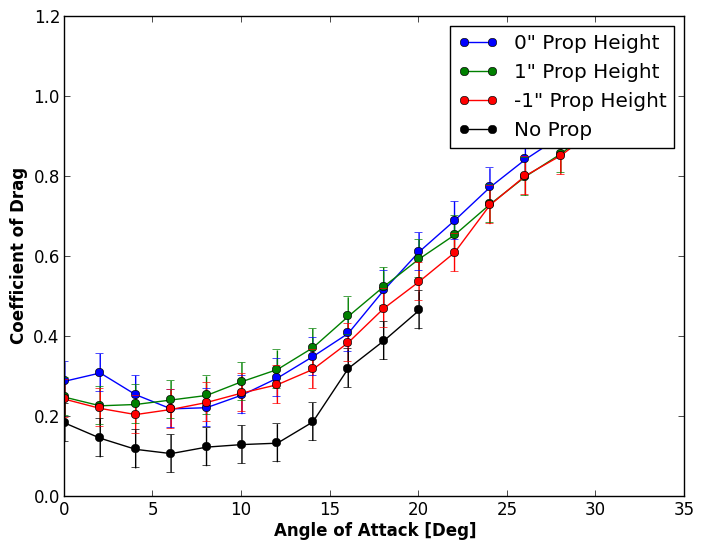
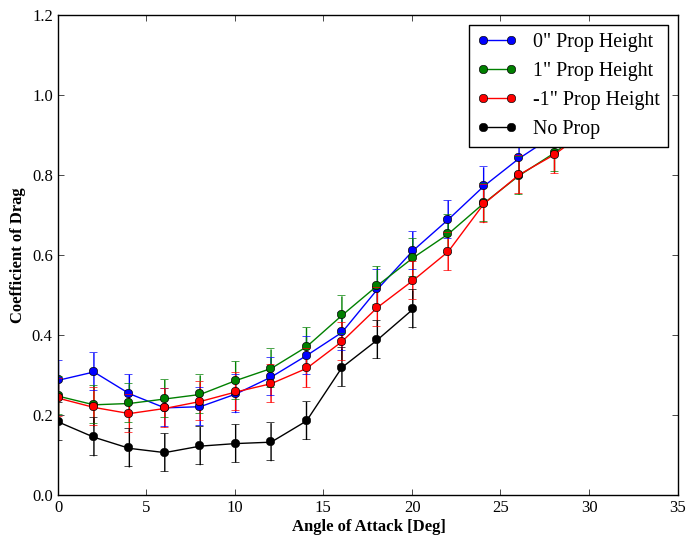
xfoil comp

Changed region(s): [[0.0, 0.0, 0.9957, 0.9982]]

diff --git a/cl_alpha_curves.py b/cl_alpha_curves.py
@@ -3,6 +3,10 @@ import matplotlib.pyplot as plt
 import numpy as np
 from dataProcessing import getForcesMoments
 
+font = {'family': 'Times New Roman'}
+
+plt.rc('font', **font)
+
 data = {}
 
 tunnel_V = 10.64 # m/s
@@ -100,18 +104,17 @@ legend = []
 for key in data[300][2300].keys():
 
     plt.figure(1)
-    # plt.plot(data[300][2300][key]['Alpha'], data[300][2300]
-    #          [key]['CL'] - data[0][2300][key]['CL'], '-o')
     plt.errorbar(data[300][2300][key]['Alpha'], data[300][2300][key]['CL'] - data[0][2300][key]['CL'],  yerr=[data[300][2300][key]['CL Low Error'], data[300][2300][key]['CL High Error']], fmt='-o' )
 
     plt.figure(2)
     plt.errorbar(data[300][2300][key]['Alpha'], data[300][2300][key]['CD'] - data[0][2300][key]['CD'],  yerr=[data[300][2300][key]['CD Low Error'], data[300][2300][key]['CD High Error']], fmt='-o' )
 
-    # plt.plot(data[300][2300][key]['Alpha'], data[300][2300]
-    #          [key]['CD'] - data[0][2300][key]['CD'], '-o')
 
     legend.append(str(key)+ '" Prop Height')
-    # print key
+    print(key)
+    # print(data[300][2300][key]['CL'])data[300][2300][key]['CL'] - data[0][2300][key]['CL']
+    print(np.max(data[300][2300][key]['CL'] - data[0][2300][key]['CL']))
+
 
 legend.append('No Prop')
 plt.figure(1)
@@ -134,7 +137,24 @@ plt.savefig('Figures/CD_Alpha.png',    bbox_inches='tight')
 
 
 
-plt.show()
+# plt.show()
 
+
+
+
+alpha_xfoil = np.array([0, 1, 2, 3, 4, 5, 6, 7, 8, 9, 11, 12, 13, 14, 15, 18])
+CL_xfoil = np.array([0.2691, 0.4268, 0.5201, 0.6143, 0.7078, 0.8008, 0.8911, 0.973, 1.0413, 1.1025, 1.1951, 1.2297, 1.233, 1.2118, 1.1486, 0.855])
+
+
+plt.figure(3)
+plt.errorbar(data[300][0][0]['Alpha'], data[300][0][0]['CL'],  yerr=[data[300][0][0]['CL Low Error'], data[300][0][0]['CL High Error']], fmt='k-o' )
+plt.plot(alpha_xfoil, CL_xfoil, 'r-o')
+plt.legend(legend)
+plt.xlabel('Angle of Attack [Deg]', fontweight='bold')
+plt.ylabel('Coefficient of Lift', fontweight='bold')
+plt.savefig('Figures/CL_Alpha_xfoil.png',     bbox_inches='tight')
+
+
+plt.show()
 print('Done')
 
